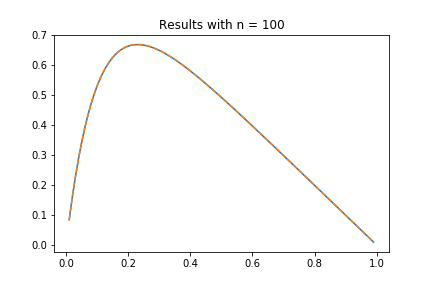
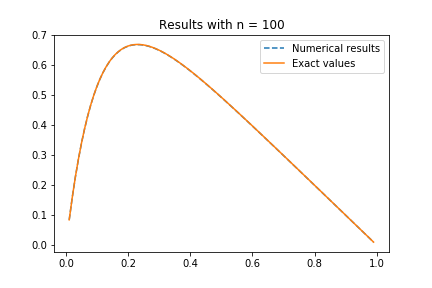
Changes to Project1plot.py
- Added legends in the plots

diff --git a/Project1/DebugFolder/Project1Plot.py b/Project1/DebugFolder/Project1Plot.py
@@ -65,23 +65,26 @@ for i in range(1,1001):
 #Plotting töpliz results vs exact results (n = 10,100,1000)
 import matplotlib.pyplot as plt
 fig1 = plt.figure(1)
-h_10 = plt.plot(h10,tridiagonal10, h10, exact10)
-h_10[1].set_ls('--')
+h_10 = plt.plot(h10,topliz10, h10, exact10)
+h_10[0].set_ls('--')
 plt.title("Results with n = 10")
+plt.legend([h_10[0],h_10[1]],["Numerical results", "Exact values"])
 plt.show()
 fig1.savefig('results10n.png')
 
 fig2 = plt.figure(2)
-h_100 = plt.plot(h100,tridiagonal100, h100, exact100)
-h_100[1].set_ls('--')
+h_100 = plt.plot(h100,topliz100, h100, exact100)
+h_100[0].set_ls('--')
 plt.title("Results with n = 100")
+plt.legend([h_100[0],h_100[1]],["Numerical results", "Exact values"])
 plt.show()
 fig2.savefig('results100n.png')
 
 fig3 = plt.figure(3)
-h_1000 = plt.plot(h1000,tridiagonal1000, h1000, exact1000)
-h_1000[1].set_ls('--')
+h_1000 = plt.plot(h1000,topliz1000, h1000, exact1000)
+h_1000[0].set_ls('--')
 plt.title("Results with n = 1000")
+plt.legend([h_1000[0],h_1000[1]],["Numerical results", "Exact values"])
 plt.show()
 fig3.savefig('results1000n.png')
 
